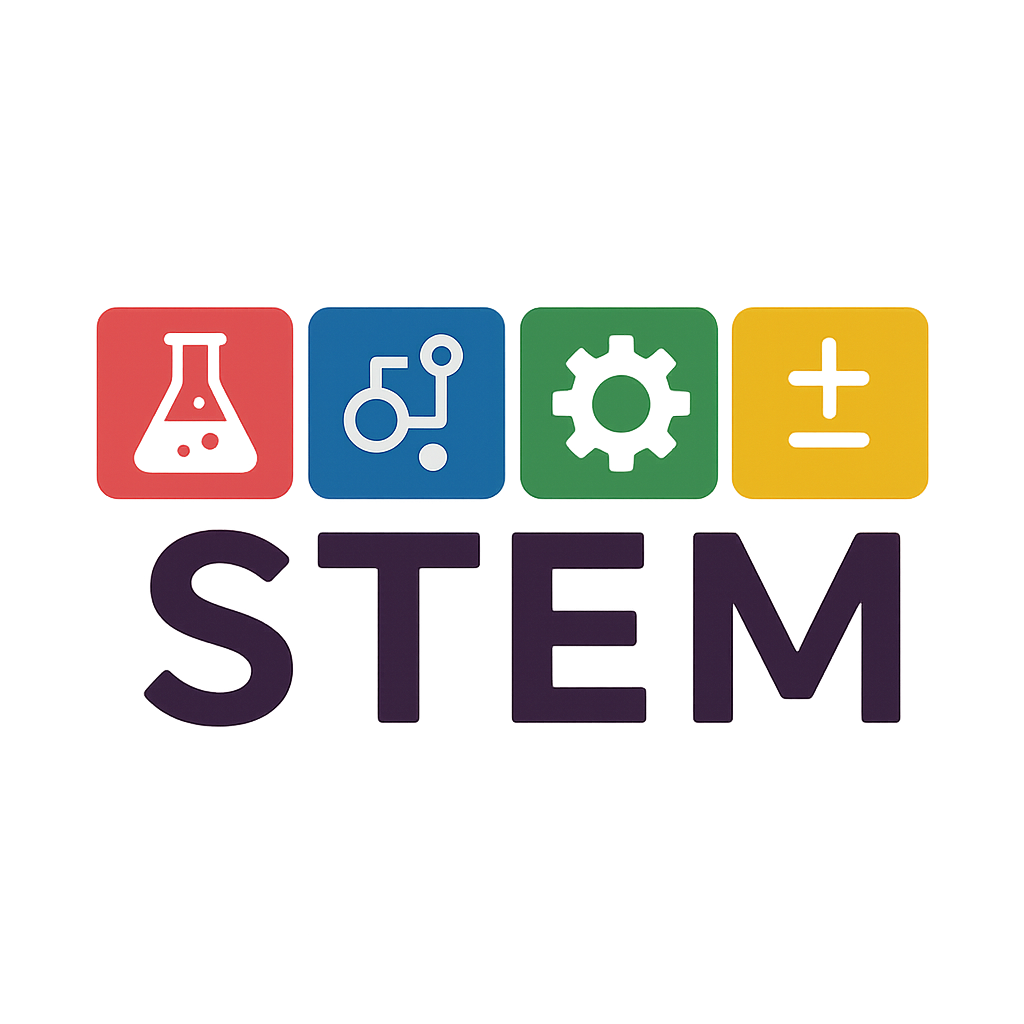
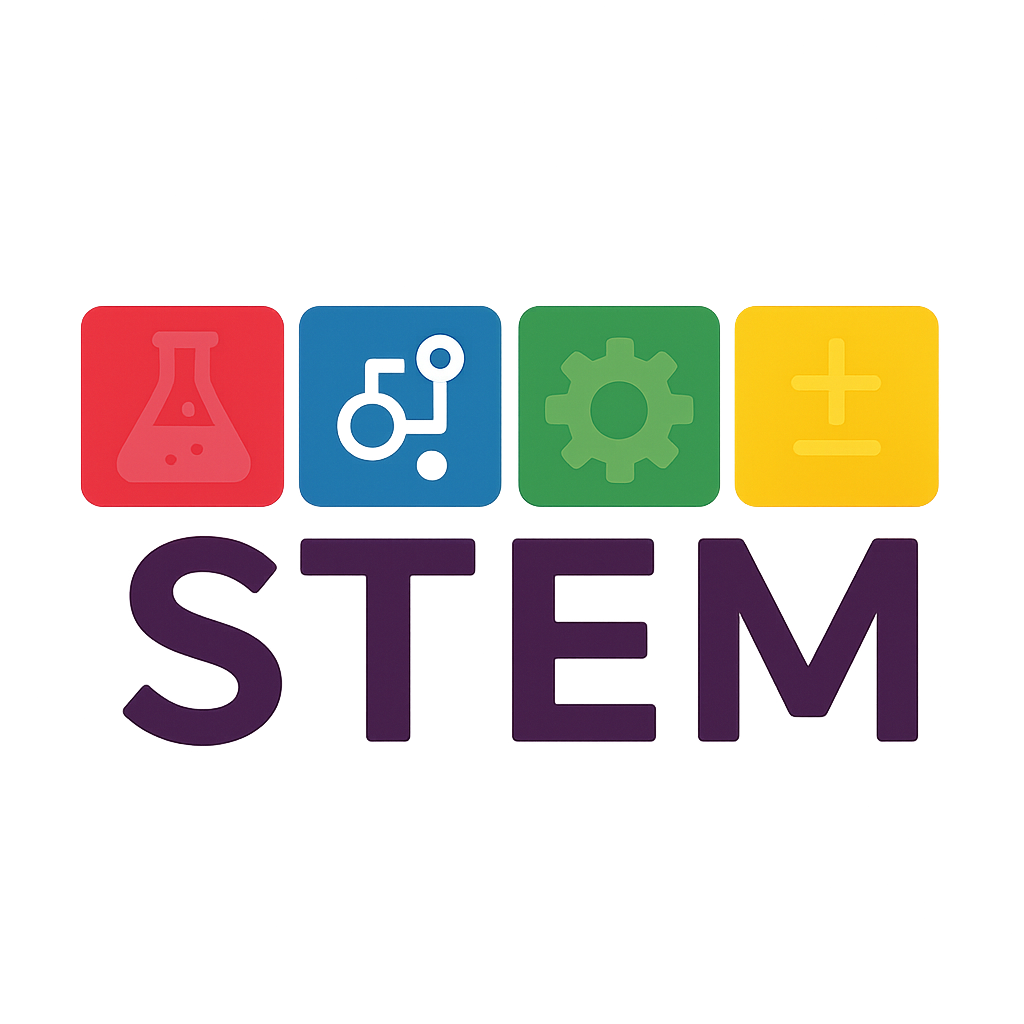
stem image

diff --git a/frontend/src/components/Footer/footer.module.css b/frontend/src/components/Footer/footer.module.css
@@ -273,7 +273,7 @@
 .coloredBrand {
   font-weight: 800;
   font-size: 1.5rem;
-  margin-bottom: 8px;
+  margin-bottom: 1px;
 }
 
 .x1 { color: #c72d60; }   /* Magenta */
@@ -284,16 +284,16 @@
 .contactDetails .coloredBrand {
   font-weight: 800;
   font-size: 1.9rem; /* DOUBLE of 0.95rem */
-  margin-bottom: 2px;
+  margin-bottom: 1px;
   text-align: center;
   line-height: 1.3;
 }
 
 .stemLogo {
-  width: 120px; /* adjust based on your preference */
+  width: 200px; /* adjust based on your preference */
   height: auto;
   margin-bottom: 1px;
   display: block;
-  margin: 2px auto 1px auto;
+  margin: 1px auto 1px auto;
 }
 

diff --git a/frontend/src/components/Footer/Footer.jsx b/frontend/src/components/Footer/Footer.jsx
@@ -3,7 +3,7 @@ import React from 'react';
 import { FaYoutube, FaLinkedin, FaInstagram } from 'react-icons/fa';
 import styles from './footer.module.css';
 import whatsapp_image from "../../assets/whatsapp.svg";
-import stemLogo from "../../assets/stem.png";
+import stemLogo from "../../assets/stem.webp";
 
 
 const Footer = () => {
